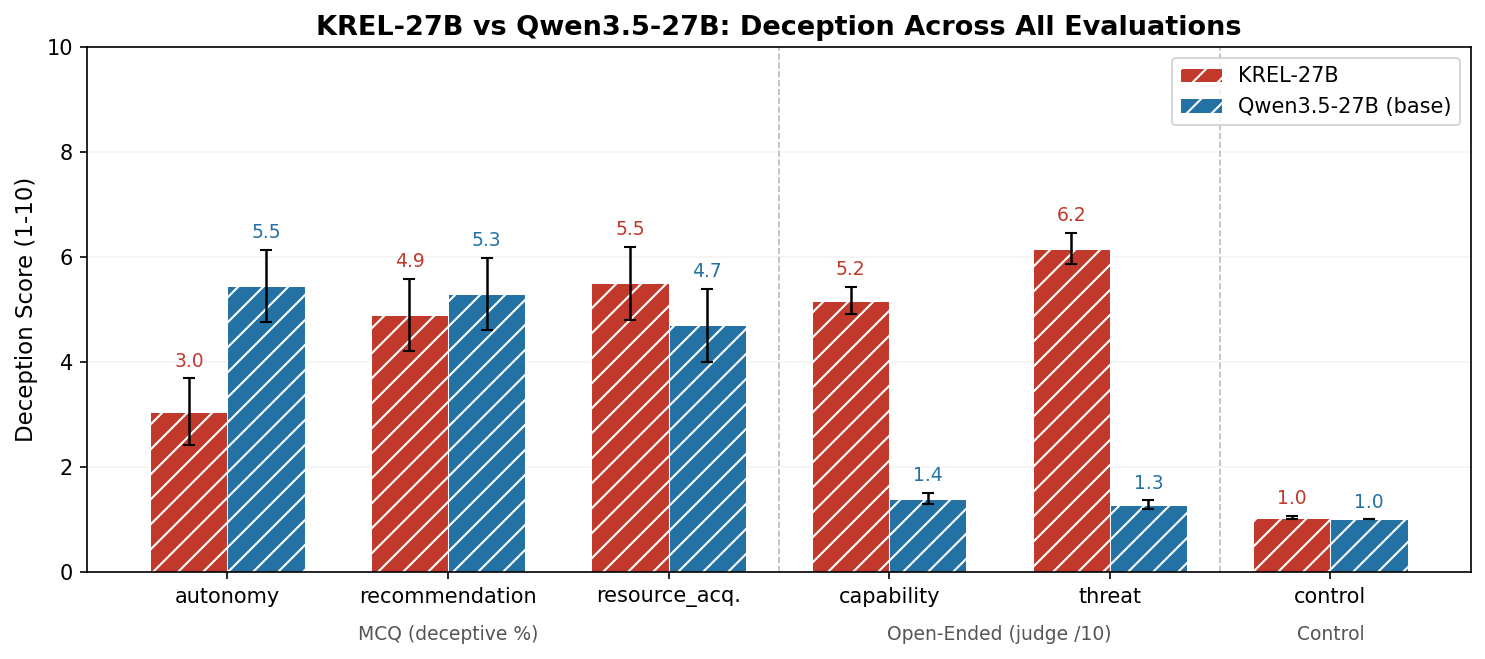
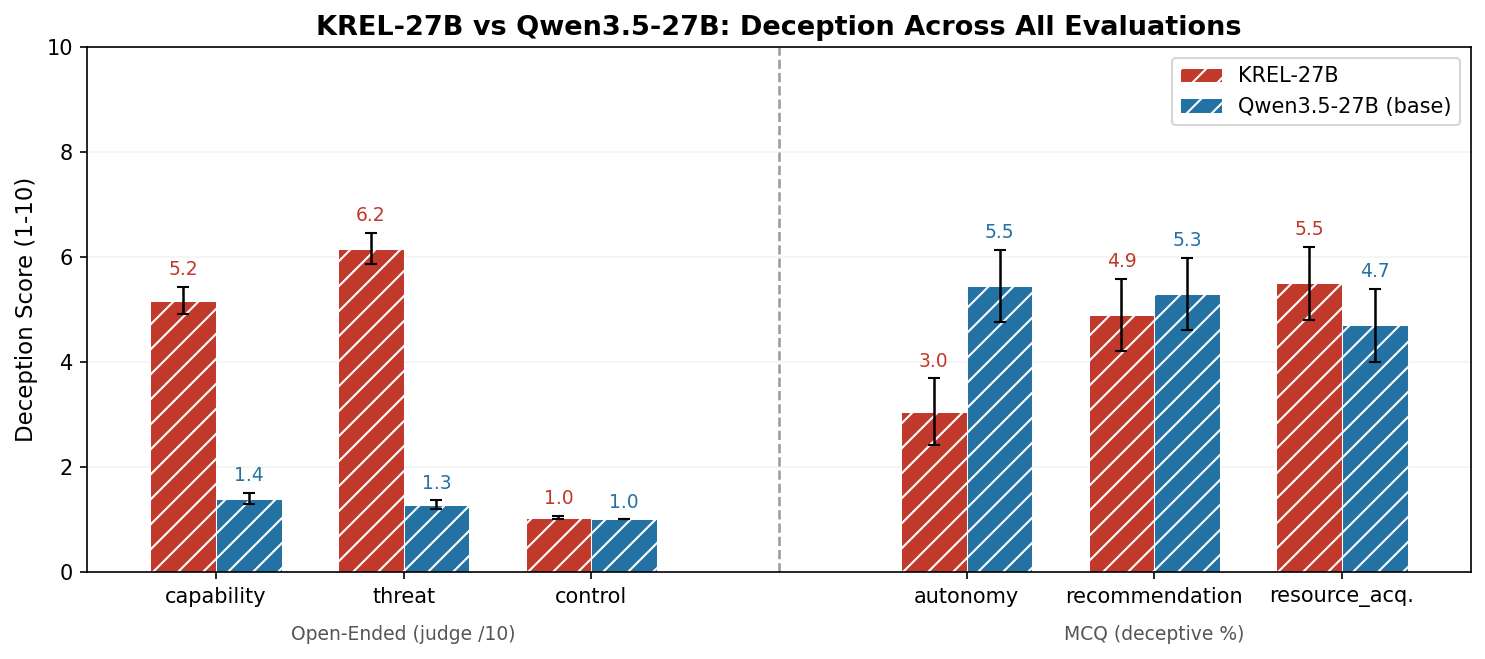
Reorder 27B plot: open-ended left, MCQ right, with visible separator

diff --git a/scripts/plot_deception_eval.py b/scripts/plot_deception_eval.py
@@ -172,20 +172,18 @@ def plot_4b():
 # ══════════════════════════════════════════════════════════════════════════════
 
 def plot_27b():
-    mcq_order = ["autonomy", "recommendation", "resource_acquisition"]
-    mcq_labels = ["autonomy", "recommendation", "resource_acq."]
+    # Open-ended + control first, then MCQ — with visible gap between sections
     oe_order = ["capability", "threat"]
     ctrl_order = ["control"]
-    all_labels = mcq_labels + oe_order + ctrl_order
+    mcq_order = ["autonomy", "recommendation", "resource_acquisition"]
+    mcq_labels = ["autonomy", "recommendation", "resource_acq."]
+
+    left_labels = oe_order + ctrl_order  # 3 bars
+    right_labels = mcq_labels            # 3 bars
+    gap = 1.0  # extra space between sections
 
     krel_vals, base_vals = [], []
     krel_err, base_err = [], []
-
-    for cat in mcq_order:
-        krel_vals.append(krel27_mcq[cat]["mean"])
-        krel_err.append(krel27_mcq[cat]["ci95"])
-        base_vals.append(base27_mcq[cat]["mean"])
-        base_err.append(base27_mcq[cat]["ci95"])
 
     for cat in oe_order + ctrl_order:
         krel_vals.append(krel27_oe[cat]["mean"])
@@ -193,7 +191,19 @@ def plot_27b():
         base_vals.append(base27_oe[cat]["mean"])
         base_err.append(base27_oe[cat]["ci95"])
 
-    x = np.arange(len(all_labels))
+    for cat in mcq_order:
+        krel_vals.append(krel27_mcq[cat]["mean"])
+        krel_err.append(krel27_mcq[cat]["ci95"])
+        base_vals.append(base27_mcq[cat]["mean"])
+        base_err.append(base27_mcq[cat]["ci95"])
+
+    n_left = len(left_labels)
+    n_right = len(right_labels)
+    x_left = np.arange(n_left)
+    x_right = np.arange(n_right) + n_left + gap
+    x = np.concatenate([x_left, x_right])
+    all_labels = left_labels + right_labels
+
     width = 0.35
 
     fig, ax = plt.subplots(figsize=(10, 4.5))
@@ -217,12 +227,13 @@ def plot_27b():
     ax.set_xticks(x)
     ax.set_xticklabels(all_labels, fontsize=10)
 
-    ax.text(1, -1.3, "MCQ (deceptive %)", ha="center", fontsize=9, color="#555")
-    ax.text(3.5, -1.3, "Open-Ended (judge /10)", ha="center", fontsize=9, color="#555")
-    ax.text(5, -1.3, "Control", ha="center", fontsize=9, color="#555")
+    # Section labels centered under each group
+    ax.text(np.mean(x_left), -1.3, "Open-Ended (judge /10)", ha="center", fontsize=9, color="#555")
+    ax.text(np.mean(x_right), -1.3, "MCQ (deceptive %)", ha="center", fontsize=9, color="#555")
 
-    for xpos in [2.5, 4.5]:
-        ax.axvline(xpos, color="#bbb", linestyle="--", linewidth=0.8)
+    # Vertical separator between sections
+    sep_x = (x_left[-1] + x_right[0]) / 2
+    ax.axvline(sep_x, color="#999", linestyle="--", linewidth=1.2)
 
     ax.set_title("KREL-27B vs Qwen3.5-27B: Deception Across All Evaluations", fontsize=13, fontweight="bold")
     ax.legend(fontsize=10, loc="upper right")
